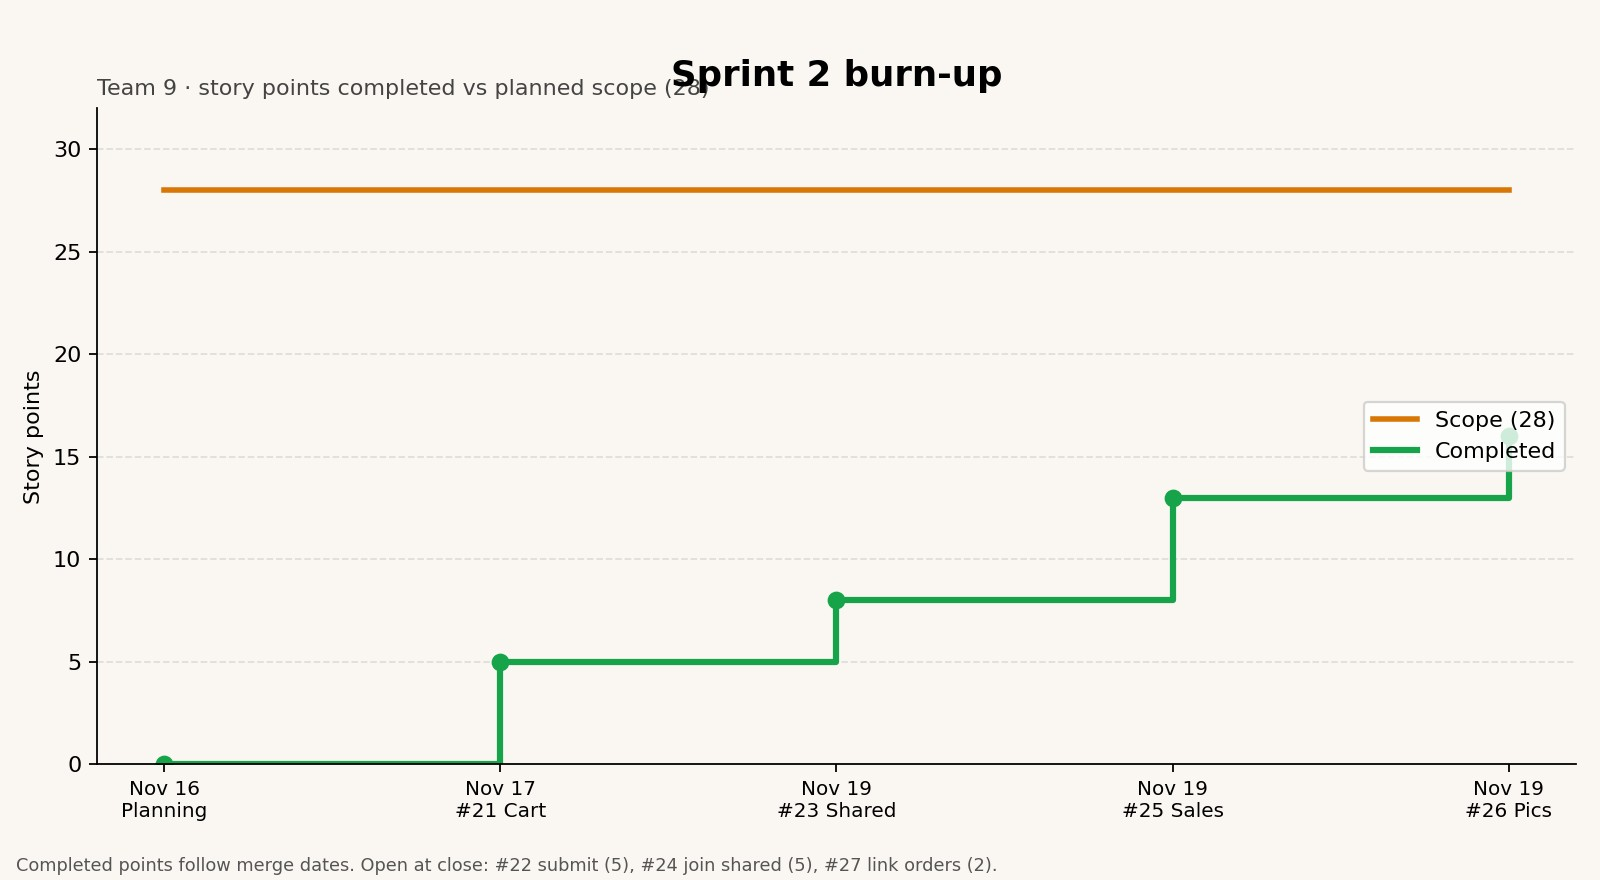
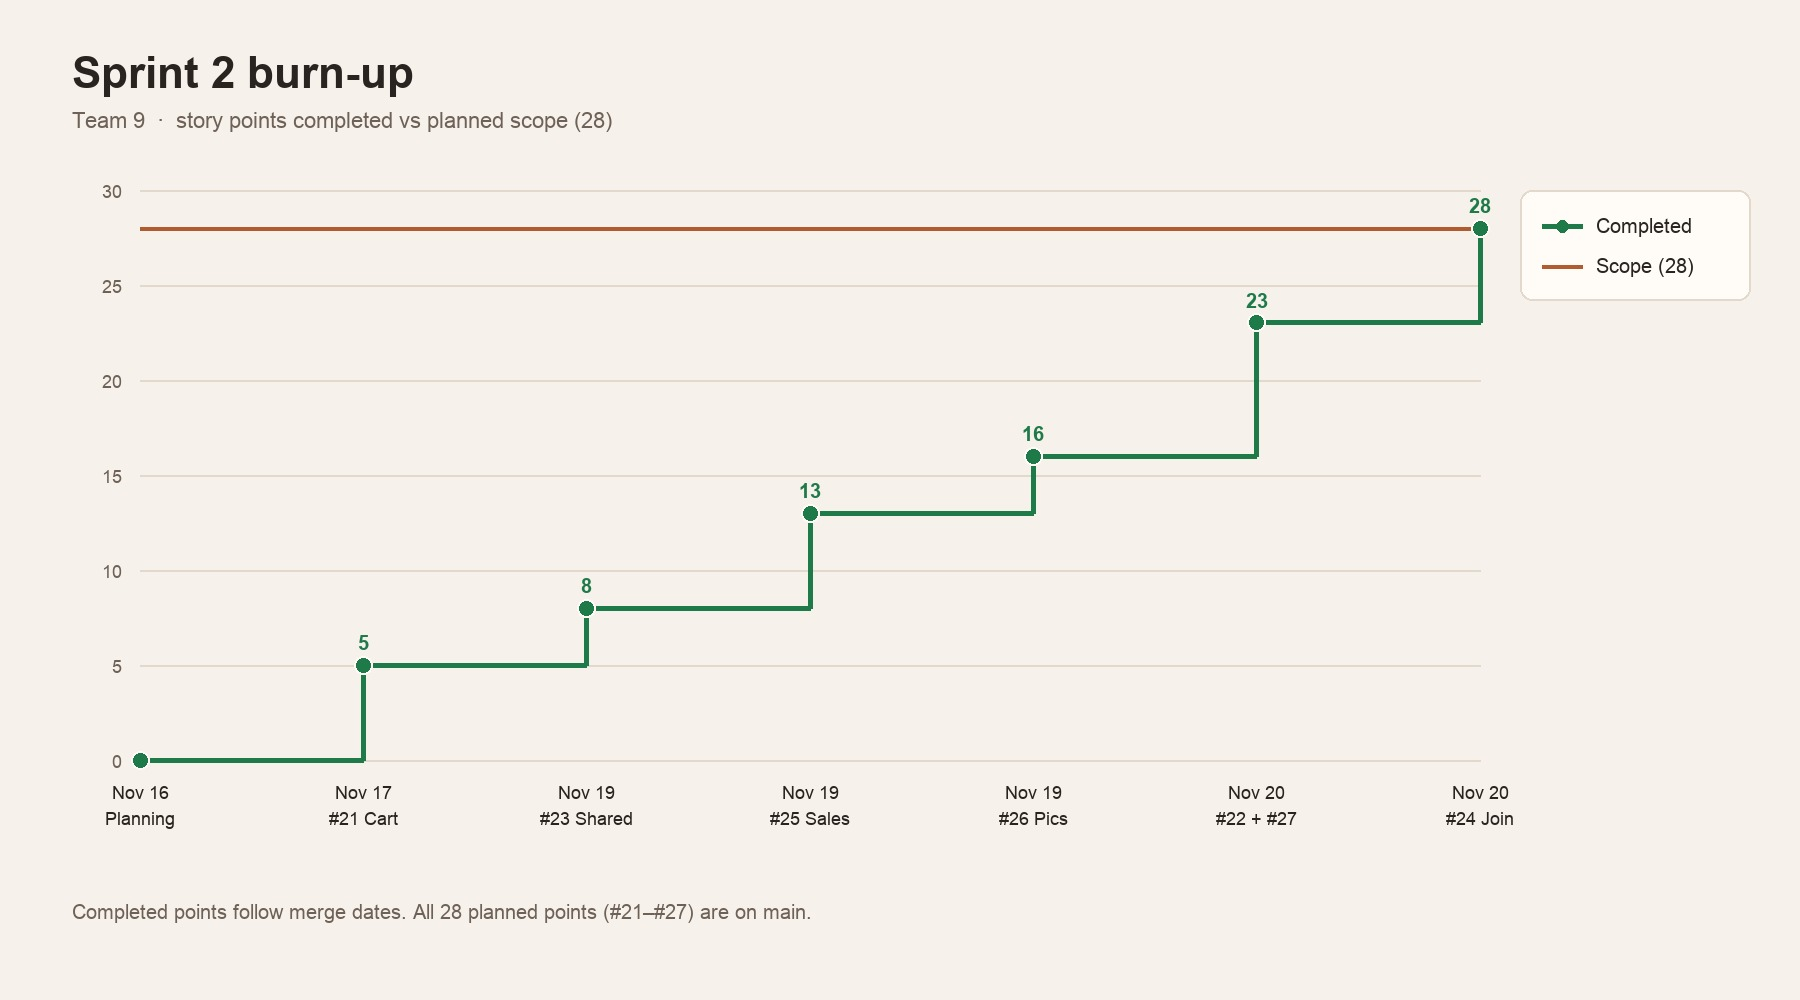
update sprint 2 artifacts

diff --git a/sprint-materials/sprint2-meetings.md b/sprint-materials/sprint2-meetings.md
@@ -14,10 +14,10 @@
 **Planned story points:** 28  
 (#21 personal cart 5, #22 submit pickup 5, #23 create shared cart 3, #24 join shared cart 5, #25 manager sales 5, #26 menu pictures 3, #27 link orders to Google 2)
 
-**Completed story points:** 16  
-(#21, #23, #25, #26)
+**Completed story points:** 28  
+(#21–#27, all merged to `main` and closed on the board)
 
-**Not finished this sprint (carried toward Sprint 3 / next work):** #22 submit (5), #24 join shared cart (5), #27 link customer Google to orders (2) — 12 pts
+**Still out of scope (Sprint 3):** group checkout of a shared cart (#11)
 
 ---
 
@@ -61,7 +61,7 @@
 - **Date / time:** Wednesday, Nov 19, 2026 · 8:00 PM
 - **Attendees:** Jack Berry, Nevin Kalloor, Dishant Patel, Ayaan Budhwani
 - **Blockers raised:** Ayaan — #22/#27 not started enough for Sprint 2 close; kitchen submit + account link need more than a day. Nevin — #24 join/add-items still open on a feature branch. Dishant — #23/#25 ready to merge; careful with conflict on `main`.
-- **Decisions:** Prioritize merging #23 and #25 tonight. Jack finishes #26 official menu photos + clearer Browse labels for the demo. Be honest in the retro that submit (#22), join (#24), and Google-linked orders (#27) miss Sprint 2; carry them with points into the next planning pass. Demo workflow for feedback: customer Google login → Browse with pictures → fill My cart → create Shared cart code; manager opens Sales summary.
+- **Decisions:** Prioritize merging #23 and #25 tonight. Jack finishes #26 official menu photos + clearer Browse labels for the demo. At this meeting, #22, #24, and #27 still looked like they would slip. They merged early Nov 20 and are in the completed 28. Demo workflow: customer Google login → Browse with pictures → fill My cart → place pickup order → create or join a Shared cart; manager opens Sales summary.
 
 ---
 
@@ -69,38 +69,39 @@
 
 - **Date / time:** Thursday, Nov 19, 2026 · 9:30 PM
 - **Attendees:** Jack Berry, Nevin Kalloor, Dishant Patel, Ayaan Budhwani
-- **Blockers raised:** None for Sprint 2 closeout beyond unfinished stories already listed. Need burn-up snapshot + GitHub Release for submission.
+- **Blockers raised:** None left on #21–#27. #22, #27, and #24 landed after this meeting (early Nov 20) and are closed. Burn-up snapshot is `sprint-materials/sprint2-burn-up.jpg`.
 
 ### What went well
 - User study 1 feedback turned into concrete stories (#26 labels/pictures, keep personal vs shared cart separate)
 - #21 meal cart fixed a real pricing bug (sides/entrees inside a meal)
-- #23 shared cart create + code is live and demoable without pretending full multi-user sync
+- Customer path is end to end: Browse → My cart → Place pickup order, with the order linked to the Google account (#22, #27)
+- #23 create + #24 join/add items are live; shared cart lines stay on the server
 - #25 manager sales summary is a clean read-only win with little schema risk
 - Parallel ownership (Jack / Dishant / Nevin / Ayaan) still worked when dependencies were called out early
 
 ### What did not go well
-- Planned 28 pts; finished 16 — too much packed after user-study planning
-- #22 submit and #27 account-link depended on cart + auth details that landed late
-- #24 join/add-items waited on #23 and did not close in Sprint 2
-- Board / burn-up still needs merge-date discipline (same lesson as Sprint 1)
+- #22, #24, and #27 all landed on the close night, after #21 and #23 were already on `main`
+- Join (#24) waited on the create-cart API, so the second half of the shared-cart work compressed into one night
+- Board dates and the first burn-up draft lagged the merges (same lesson as Sprint 1)
 
 ### Velocity
 - **Planned:** 28 story points  
-- **Completed:** 16 story points (#21=5, #23=3, #25=5, #26=3)  
-- **Missed:** 12 story points (#22=5, #24=5, #27=2)  
-- Velocity dropped vs Sprint 1’s 26 completed. Estimates for submit/join/link were optimistic once meal cart + shared-cart schema work showed up. For Sprint 3, plan closer to **16–20** pts unless join/submit are already mid-flight.
+- **Completed:** 28 story points (#21=5, #22=5, #23=3, #24=5, #25=5, #26=3, #27=2)  
+- **Missed:** 0  
+- Matches Sprint 1’s completed pace (26) with a late finish. For Sprint 3, keep group checkout (#11) as its own story instead of stacking it on join.
 
 ### Takeaways for future sprints
 - Do not schedule both “create shared cart” and “join + add items” as must-finish in the same short sprint unless create is already on `main` on day 1
-- Keep one end-to-end customer feedback path even when submit slips (Browse + My cart + create code was enough for study-ready UX feedback)
-- Carry #22 / #24 / #27 explicitly into Sprint 3 planning with the novel feature (#11) instead of silently shrinking scope
-- Upload burn-up + cut the GitHub Release the night before the live demo
+- Keep one end-to-end customer path in the demo: Browse, My cart, pickup submit, and join by code
+- Sprint 3 starts at group checkout (#11), not a redo of #22 / #24 / #27
+- Cut the GitHub Release from the same commit as the burn-up
 - Continue citing AI help in `AI-USE.md` the same day as the PR
 
 ### Demoable Sprint 2 MVP (for user feedback)
 1. Customer Google login → `/menu` Browse with item pictures  
 2. Build a Plate / Bowl in **My cart** (add/remove, subtotal, meal rules)  
-3. Create a **Shared cart** and copy the join code  
-4. Manager Google login → **Sales summary** for 1 / 7 / 30 days  
+3. **Place pickup order** and confirm the order number and subtotal  
+4. Create a **Shared cart**, join with the code, and add items  
+5. Manager Google login → **Sales summary** for 1 / 7 / 30 days  
 
 Live app: https://team-9-project-3-src.vercel.app/ · API: https://team-9-project-3.onrender.com/
